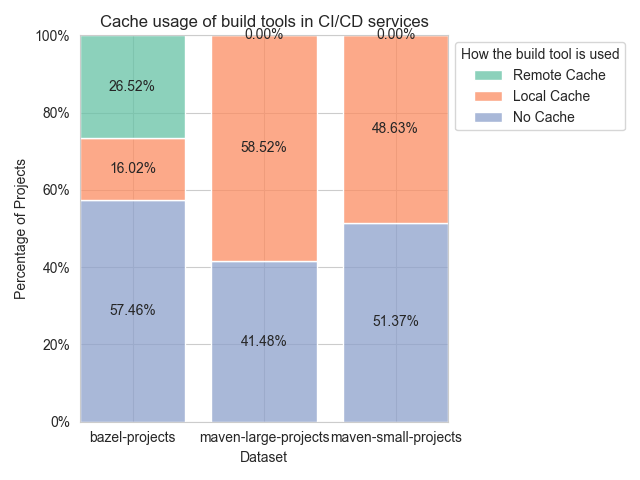
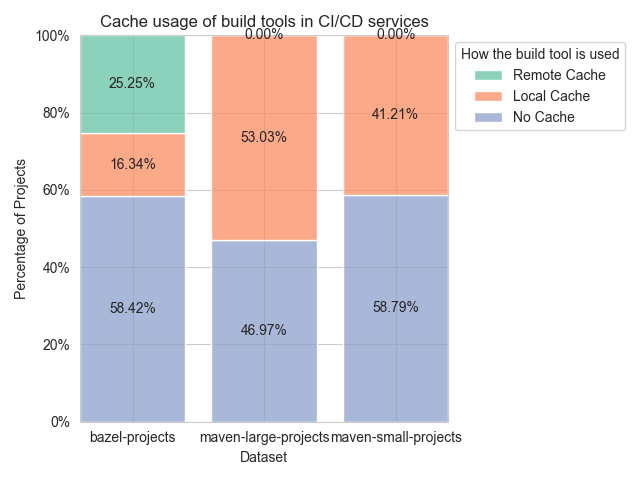
fix: manually checked the usage of build tools in CI/CD services for projects don't use build tool in their CI/CD services, and update the data according to the results of the check

diff --git a/analysis/ciconfig/parser.py b/analysis/ciconfig/parser.py
@@ -40,6 +40,11 @@ class CIConfig:
 
 
 class CIConfigParser:
+    total_analyzed_ci_file_count = 0
+    total_analyzed_script_count = 0
+    total_analyzed_commands_count = 0
+    total_analyzed_makefile_count = 0
+
     def __init__(self, project_dir: str):
         self.project_dir = project_dir
         self.ci_file_pattern = re.compile(self._ci_file_pattern())
@@ -51,6 +56,9 @@ class CIConfigParser:
         self.maven_command_matcher = re.compile(".*mvnw? (.*)")
         self.make_command_matcher = re.compile(".*make (.*)")
 
+        self.analyzed_makefile = False
+        self.analyzed_scripts = set()
+
     def parse(self) -> [CIConfig]:
         ci_configs = []
         for ci_file in self._scan_ci_files():
@@ -58,11 +66,13 @@ class CIConfigParser:
                 ci_config_str = f.read()
             if not ci_config_str:
                 continue
-
+            CIConfigParser.total_analyzed_ci_file_count += 1
             ci_config = self.parse_ci_file(ci_config_str)
             if not ci_config:
                 continue
             ci_configs.append(ci_config)
+        CIConfigParser.total_analyzed_makefile_count += 1 if self.analyzed_makefile else 0
+        CIConfigParser.total_analyzed_script_count += len(self.analyzed_scripts)
         return ci_configs
 
     @abstractmethod
@@ -202,6 +212,8 @@ class CIConfigParser:
         return possible_ci_files
 
     def _parse_commands(self, command, convert_make=True) -> [BuildCommand]:
+        CIConfigParser.total_analyzed_commands_count += 1
+
         cmds = []
         command_matchers = {"maven": self.maven_command_matcher, "bazel": self.bazel_command_matcher,
                             "bazelisk": self.bazelisk_command_matcher, "make": self.make_command_matcher}
@@ -219,6 +231,7 @@ class CIConfigParser:
                 # if this step invoke a script, we look at that script to check if they run any Bazel command within
                 for script_file in self.sh_scripts:
                     if script_file.name in command:
+                        self.analyzed_scripts.add(script_file.path)
                         with open(script_file.path, "r") as f:
                             raw_script = f.read()
                             for match in matcher.finditer(raw_script):
@@ -241,6 +254,8 @@ class CIConfigParser:
             if cmd.build_tool != "make":
                 new_cmds.append(cmd)
                 continue
+
+            self.analyzed_makefile = True
 
             make_targets = []
             make_args = cmd.raw_arguments.split()
@@ -386,9 +401,11 @@ class GitHubActionConfigParser(CIConfigParser):
                 if step["uses"].startswith("github/codeql-action/autobuild"):
                     if "strategy" in job and "matrix" in job["strategy"] and "language" in job["strategy"]["matrix"]:
                         if "java" in job["strategy"]["matrix"]["language"]:
-                            for cmd in self._parse_commands('mvn clean package -f "pom.xml" -B -V -e -Dfindbugs.skip -Dcheckstyle.skip -Dpmd.skip=true -Dspotbugs.skip -Denforcer.skip -Dmaven.javadoc.skip -DskipTests -Dmaven.test.skip.exec -Dlicense.skip=true -Drat.skip=true -Dspotless.check.skip=true'):
+                            for cmd in self._parse_commands(
+                                    'mvn clean package -f "pom.xml" -B -V -e -Dfindbugs.skip -Dcheckstyle.skip -Dpmd.skip=true -Dspotbugs.skip -Denforcer.skip -Dmaven.javadoc.skip -DskipTests -Dmaven.test.skip.exec -Dlicense.skip=true -Drat.skip=true -Dspotless.check.skip=true'):
                                 cmd.cores = cores
-                                cmd.local_cache = (cmd.build_tool == "maven" and local_maven_cache) or local_cache_enable
+                                cmd.local_cache = (
+                                                              cmd.build_tool == "maven" and local_maven_cache) or local_cache_enable
                                 cmd.local_cache_paths = local_cache_paths
                                 gha_cfg.build_commands.append(cmd)
 
@@ -771,7 +788,6 @@ class TravisCIConfigParser(CIConfigParser):
             if "install" not in cfgs:
                 # if not install is defined, and it is a java project, travis will run mvn install -DskipTests=true -Dmaven.javadoc.skip=true -B -V by default
                 build_cmds.extend(self._parse_commands("mvn install -DskipTests=true -Dmaven.javadoc.skip=true -B -V"))
-
 
         for cmd in build_cmds:
             cmd.local_cache = local_cache

diff --git a/visualization/visualize.py b/visualization/visualize.py
@@ -14,12 +14,13 @@ def visualize_data(data_dir: str):
 
     data_dir = os.path.join(data_dir, "processed")
     visualize_ci_tools(data_dir)
-    # visualize_subcommand_usage(data_dir)
-    # visualize_parallelization_usage(data_dir)
-    # visualize_cache_usage(data_dir)
-    # visualize_build_rule_categories(data_dir)
-    # visualize_script_usage(data_dir)
-    # visualize_arg_size(data_dir)
+    visualize_subcommand_usage(data_dir)
+    visualize_parallelization_usage(data_dir)
+    visualize_cache_usage(data_dir)
+    visualize_build_rule_categories(data_dir)
+    visualize_script_usage(data_dir)
+    visualize_arg_size(data_dir)
+    # visualize_parallelization_experiments(data_dir)
 
 
 def visualize_ci_tools(data_dir: str):
@@ -33,9 +34,11 @@ def visualize_ci_tools(data_dir: str):
         build_tool_usage = pd.DataFrame({"Local": [0, 0, 0, 0], "CI": [0, 0, 0, 0],
                                          "CI/CD Services": ["github_actions", "circle_ci", "buildkite", "travis_ci"]})
 
+
         df["use_build_tool"] = df.apply(
             lambda row: df.loc[
-                (df["project"] == row["project"]) & (df["ci_tool"] == row["ci_tool"]) & (df["use_build_tool"])].any().all(),
+                (df["project"] == row["project"]) & (df["ci_tool"] == row["ci_tool"]) & (
+                    df["use_build_tool"])].any().all(),
             axis=1)
         df = df.drop_duplicates()
 
@@ -445,6 +448,42 @@ def visualize_script_usage(data_dir: str):
     plt.tight_layout()
     plt.savefig("./images/script_usage")
     plt.show()
+
+
+# def visualize_parallelization_experiments(data_dir):
+#     df = pd.read_csv(
+#         "/Users/zhengshenyu/PycharmProjects/how-do-developers-use-bazel/data/experiments/results-apr-10-narf.csv")
+#     df["median_elapsed_time"] = df.apply(
+#         lambda row: df.loc[(df["project"] == row["project"]) & (df["parallelism"] == row["parallelism"]) & (
+#                     df["subcommand"] == row["subcommand"])]["elapsed_time"].median(), axis=1)
+#     df = df.drop(columns=["elapsed_time", "critical_path", "target"]).drop_duplicates().reset_index(drop=True)
+#
+#     delete_list = []
+#     for project, subcommand in zip(df["project"].unique(), ["build", "test"]):
+#         if subcommand not in df[(df["project"] == project)]["subcommand"].unique():
+#             continue
+#
+#         if len(df[(df["project"] == project) & (df["subcommand"] == subcommand)]["parallelism"].unique()) != 4:
+#             delete_list.append((project, subcommand))
+#
+#
+#     for project, subcommand in delete_list:
+#         df = df.drop(df[(df["project"] == project) & (df["subcommand"] == subcommand)].index)
+#
+#     df["improvement"] = df.apply(lambda row: row["median_elapsed_time"] / df.loc[(df["project"] == row["project"]) & (df["parallelism"] == 2) & (
+#                     df["subcommand"] == row["subcommand"])]["median_elapsed_time"].iloc[0], axis=1)
+#
+#     ax = sns.boxplot(data=df, x="parallelism", y="improvement", hue="subcommand", palette="Set2",
+#                      dodge=True)
+#
+#     ax.yaxis.set_major_formatter(lambda x, pos: f"{x:.2f}x")
+#     ax.set_xlabel("Parallelism")
+#     ax.set_ylabel("Improvement")
+#     ax.set_title("Improvement of Parallelization")
+#
+#     plt.tight_layout()
+#     plt.savefig("./images/parallelization")
+#     plt.show()
 
 
 def visualize_arg_size(data_dir: str):

diff --git a/visualization/preprocess.py b/visualization/preprocess.py
@@ -61,10 +61,13 @@ def preprocess_project_data(source_dir, processed_data_dir, build_tool, target_f
 
 def preprocess_ci_tools(source_dir: str, target_dir: str, build_tool: str, target_filename_prefix=""):
     build_commands_data_path = os.path.join(source_dir, "build_commands.csv")
+    manually_added_build_commands_path = os.path.join(source_dir, "build_commands_manually_added.csv")
     ci_tool_usage_data_path = os.path.join(source_dir, "ci_tool_usage.csv")
     target_processed_file_path = os.path.join(target_dir, f"{target_filename_prefix}-build_tools.csv")
 
     build_commands = pd.read_csv(build_commands_data_path, sep="#")
+    build_commands = pd.concat([build_commands, pd.read_csv(manually_added_build_commands_path, sep="#")])
+
     ci_tool_usages = pd.read_csv(ci_tool_usage_data_path).drop_duplicates()
     build_commands = build_commands[build_commands["build_tool"] == build_tool]
     build_commands["subcommands"] = build_commands.apply(lambda row: label_subcommand(row, build_tool)[0], axis=1)
@@ -94,9 +97,11 @@ def preprocess_ci_tools(source_dir: str, target_dir: str, build_tool: str, targe
 
 def preprocess_feature_usage(source_dir: str, target_dir: str, build_tool: str, target_filename_prefix=""):
     source_data_file_path = os.path.join(source_dir, "build_commands.csv")
+    manually_added_build_commands_path = os.path.join(source_dir, "build_commands_manually_added.csv")
     target_processed_file_path = os.path.join(target_dir, f"{target_filename_prefix}-feature_usage.csv")
 
     build_commands = pd.read_csv(source_data_file_path, sep="#")
+    build_commands = pd.concat([build_commands, pd.read_csv(manually_added_build_commands_path, sep="#")])
     build_commands = build_commands[build_commands["build_tool"] == build_tool]
     build_commands["use_parallelization"] = build_commands.apply(lambda row: int(row["parallelism"]) > 1, axis=1)
 
@@ -128,9 +133,11 @@ def label_subcommand(row, build_tool) -> (str, bool):
 
 def preprocess_script_usage(source_dir: str, target_dir: str, build_tool: str, target_filename_prefix=""):
     source_data_file_path = os.path.join(source_dir, "build_commands.csv")
+    manually_added_build_commands_path = os.path.join(source_dir, "build_commands_manually_added.csv")
     target_processed_file_path = os.path.join(target_dir, f"{target_filename_prefix}-script_usage.csv")
 
     build_commands = pd.read_csv(source_data_file_path, sep="#")
+    build_commands = pd.concat([build_commands, pd.read_csv(manually_added_build_commands_path, sep="#")])
     build_commands = build_commands[build_commands["build_tool"] == build_tool]
     build_commands = build_commands.drop(
         columns=["raw_arguments", "build_tool", "parallelism", "cores", "local_cache", "remote_cache"])

diff --git a/analysis/ciconfig/analyzer.py b/analysis/ciconfig/analyzer.py
@@ -3,7 +3,7 @@ import os
 import re
 
 from analysis.ciconfig.parser import GitHubActionConfigParser, CIConfig, CircleCIConfigParser, \
-    BuildkiteConfigParser, TravisCIConfigParser
+    BuildkiteConfigParser, TravisCIConfigParser, CIConfigParser
 
 
 class CIConfigAnalyzer:
@@ -73,9 +73,13 @@ class CIConfigAnalyzer:
                             f"{entry.name}#{ci_config.ci_tool}#{cmd.build_tool}#{cmd.raw_arguments}#{use_local_cache}#{use_remote_cache}#{parallelism}#{cmd.cores}#{cmd.invoked_by_script}\n")
                         build_cmd_size_file.write(
                             f"{entry.name}#{ci_config.ci_tool}#{cmd.build_tool}#{cmd.non_expended_arg_size}#{cmd.expanded_arg_size}\n")
+        print(f"analyzed {CIConfigParser.total_analyzed_ci_file_count} ci/cd configuration files in total")
+        print(f"analyzed {CIConfigParser.total_analyzed_commands_count} commands in total")
+        print(f"analyzed {CIConfigParser.total_analyzed_script_count} scripts in total")
+        print(f"analyzed {CIConfigParser.total_analyzed_makefile_count} makefiles in total")
 
 
 if __name__ == "__main__":
     results = CIConfigAnalyzer()._analyze_project_ci_configs(
-        "/Users/zhengshenyu/PycharmProjects/how-do-developers-use-bazel/repos/maven-large/languagetool-org_languagetool")
+        "/Users/zhengshenyu/PycharmProjects/how-do-developers-use-bazel/repos/maven-small/sonatype-nexus-community_nexus-repository-composer")
     print(results[0].build_commands)

diff --git a/analysis/analyze.py b/analysis/analyze.py
@@ -9,8 +9,8 @@ bazel_job_regex = re.compile(r"--jobs=(\d+)")
 
 
 def analyze(project_root):
-    # projects_base_names = ["bazel", "maven-large", "maven-small"]
-    projects_base_names = ["maven-large", "maven-small"]
+    projects_base_names = ["bazel", "maven-large", "maven-small"]
+    # projects_base_names = ["maven-large", "maven-small"]
     for base_dir_name in projects_base_names:
         logging.info(f"starting to analyze ci/cd configuration files in the folder {project_root}/{base_dir_name}")
         ci_config_analyzer = CIConfigAnalyzer()

diff --git a/main.py b/main.py
@@ -7,7 +7,7 @@ from visualization.visualize import visualize_data
 
 if __name__ == '__main__':
     logging.basicConfig(
-        level=logging.INFO,
+        # level=logging.INFO,
         format='%(asctime)s - %(levelname)s: %(message)s',
         datefmt='%m/%d/%Y %I:%M:%S %p')
     # projects = project.retrieve_projects()
